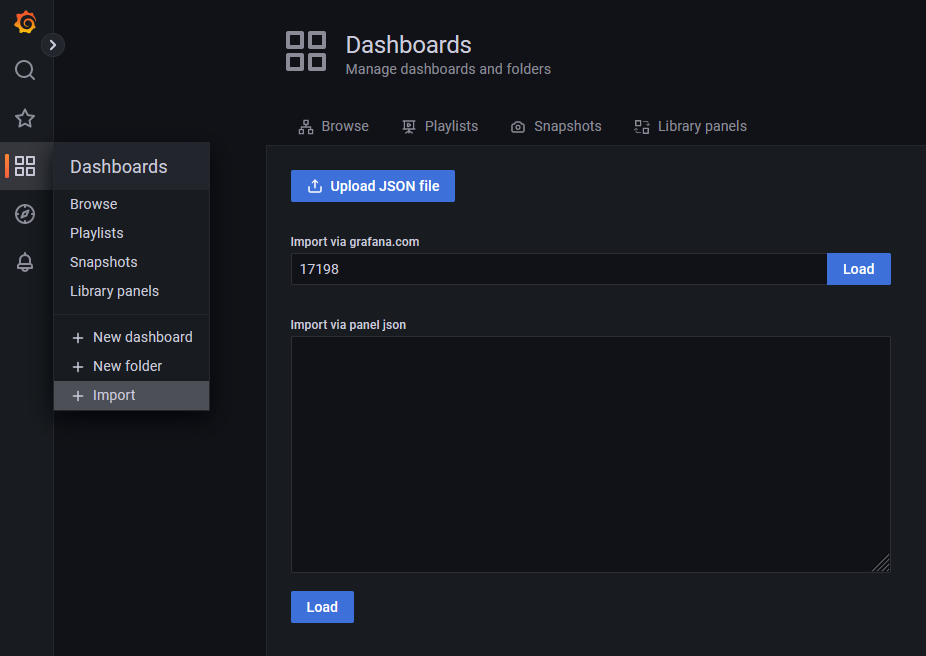
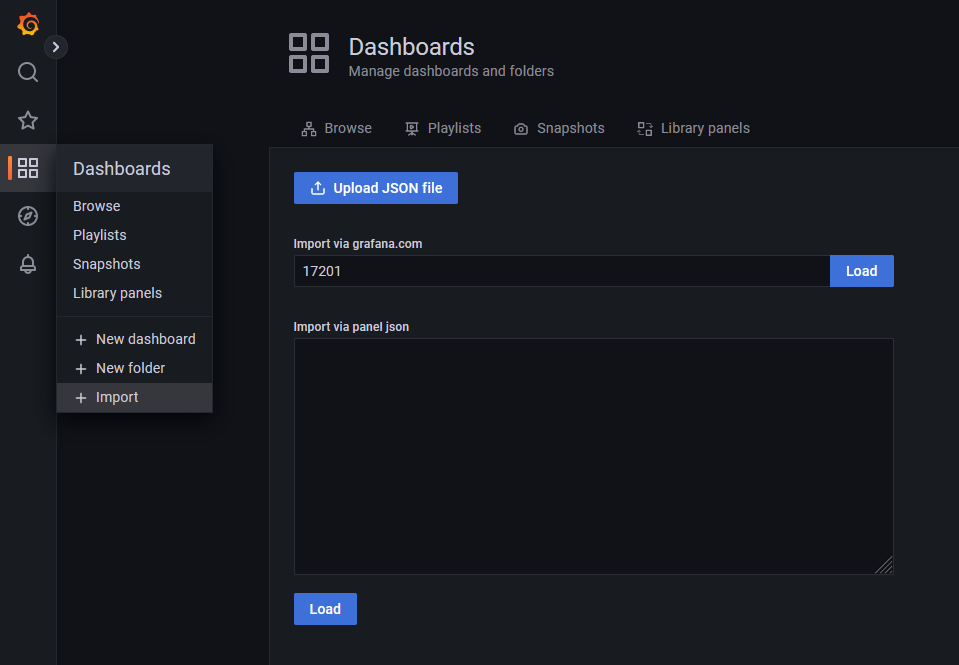
Update Grafana Dashboard ID

diff --git a/README.md b/README.md
@@ -76,6 +76,6 @@ to `/etc/prometheus/prometheus.yml` (specify the same port as in the unit file) 
 
 ## Grafana Dashboard
 
-You can import a dashboard from [https://grafana.com/grafana/dashboards/17198-minecraft/](https://grafana.com/grafana/dashboards/17198-minecraft/) or by using ID 17198:
+You can import a dashboard from [https://grafana.com/grafana/dashboards/17201-minecraft/](https://grafana.com/grafana/dashboards/17201-minecraft/) or by using ID 17201:
 
 ![Grafana Dashboard Setup](img/grafana-dashboard-setup.png)
